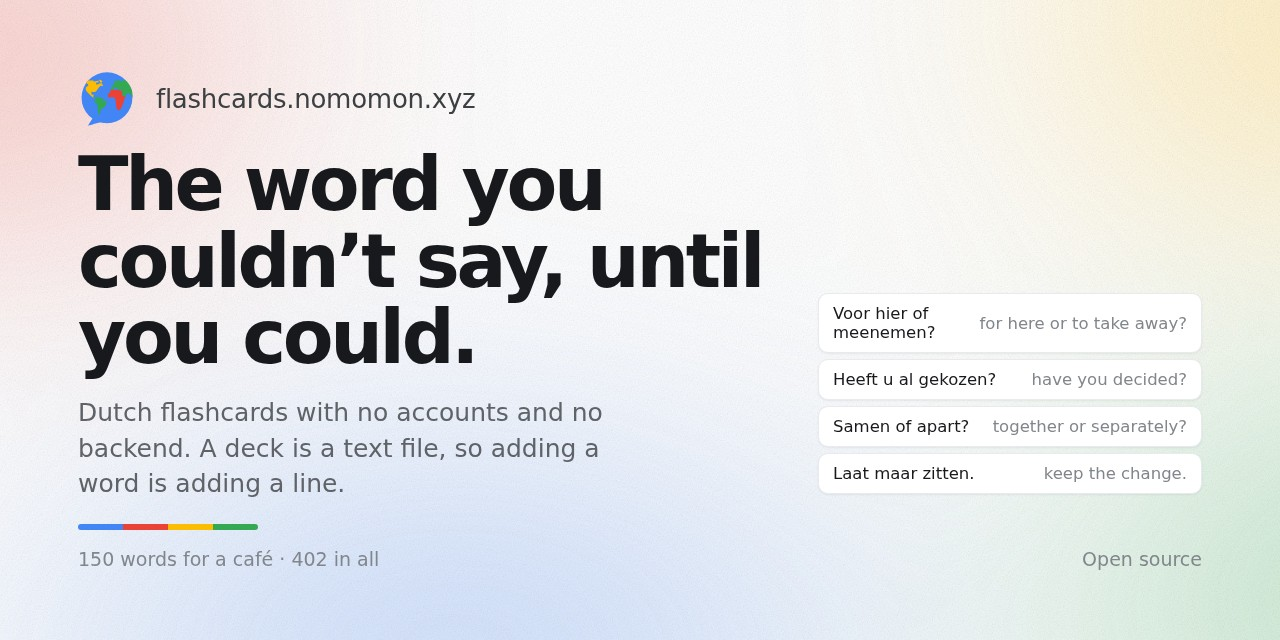
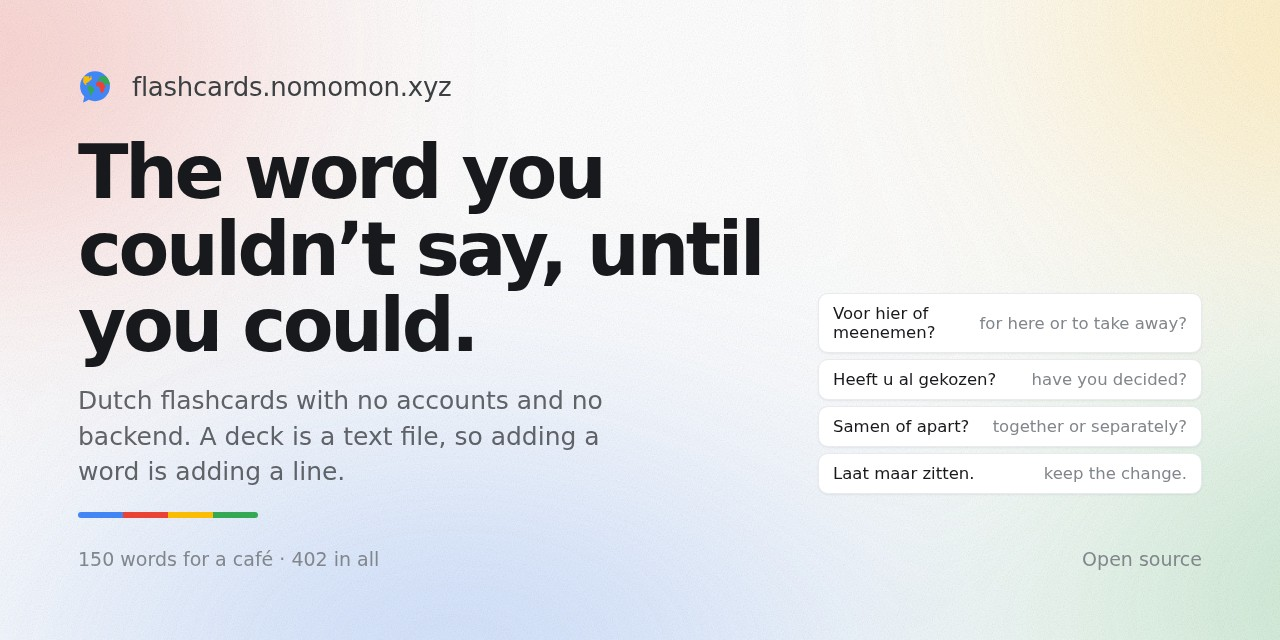
fix(brand): measure the tail, filter the coastlines, size the mark to the type
Three things, all visible.

The tail was hand-drawn from a guess and pointed the wrong way. It is now
drawn through anchors measured off the source silhouette: the two roots where
it leaves the circle, at 114.4 and 136.1 degrees, and the tip, which is the
farthest cell from the centre. Both roots sit exactly on the circle, so the
chord that closes the tail falls inside the disc and the union has no seam.

Drawn rather than traced, deliberately, and one failed attempt is worth
recording: deriving the tail as the silhouette outside the disc and smoothing
it produced a fat rounded fin, because a Gaussian over 106 cells eats the very
point that makes a speech bubble read as one.

The coastlines now go through a real filter instead of simplification alone.
Ramer-Douglas-Peucker removes points but never removes steps, so the staircase
survived it. They are resampled at uniform arc length, run through a wrapped
Gaussian along the contour, then decimated and fitted. Sampling moved to 96px,
which needed the small-shape threshold raised to 28 square units - at the old
threshold a JPEG speckle became a sixth continent sitting on North America.

The mark was oversized next to text. The globe is 87.65% of its box, and
matched to type the box wants roughly 1.4x the cap height of what it sits
beside: 1.8x dwarfs the word, 1.2x disappears under it. The header mark goes
from size-9 to size-7 beside the 24px/600 title, and the social lockup from
58px to 34px beside the 26px/500 domain.
[…]

Changed region(s): [[0.0625, 0.0938, 0.5938, 0.8438]]

diff --git a/frontend/src/components/mark.tsx b/frontend/src/components/mark.tsx
@@ -5,15 +5,23 @@ interface MarkProps {
 }
 
 /**
- * The app's mark: a globe in a speech bubble, in Google's four brand colours.
+ * A globe in a speech bubble, in Google's four brand colours.
  *
- * It carries its own colours rather than taking `currentColor`, because the
- * four hues are the mark - there is no monochrome reduction of it that still
- * says "languages". That is a deliberate trade against the previous mark, which
- * could take a deck's accent and did not need a fixed palette.
+ *     Built in two halves on purpose. The circle and the tail are DRAWN: tracing
+ *     them from the source raster left a torn outline, and a speech-bubble tail
+ *     wants a crisp point that any smoothing filter rounds off. The tail's three
+ *     anchors are measured from the source though - the two roots are where it
+ *     leaves the circle (114.4 and 136.1 degrees), and the tip is the silhouette's
+ *     farthest cell from the centre.
  *
- * The bubble is a true circle. Tracing it from the source raster left a torn
- * edge, so only the continents are traced; a circle is a circle.
+ *     The continents ARE traced, because coastlines are the one part that should
+ *     not look drawn: sampled at 96px, resampled at uniform arc length, run through
+ *     a wrapped Gaussian and decimated. The Gaussian is what turns a pixel
+ *     staircase into a coastline - simplification alone only removes points, it
+ *     never removes the steps.
+ *
+ * It carries its own colours rather than taking `currentColor`: there is no
+ * monochrome reduction of four brand hues that still says "languages".
  *
  * See `docs/DESIGN.md`.
  */
@@ -27,41 +35,41 @@ export function Mark({ className, title }: MarkProps) {
       aria-hidden={title ? undefined : "true"}
     >
       {title ? <title>{title}</title> : null}
-      <g transform="translate(6.16 4.00) scale(0.9246)">
-        <circle cx={47.41} cy={47.41} r={47.41} fill="#4285F4" />
-        {/* tail */}
+      <g transform="translate(6.17 4.00) scale(0.9246)">
+        <circle cx={47.4} cy={47.4} r={47.4} fill="#4285F4" />
+        {/* its tail */}
         <path
           fill="#4285F4"
           d={
-            "M 23.5 81 C 18.5 89.5 13.5 96 12 99.5 C 17.5 97.5 30 94.5 39.5 92 Z"
+            "M 13.25 80.27 C 11.85 87.27 10.24 94.85 9.74 99.35 C 15.24 96.55 21.82 93.57 27.82 90.57 Z"
           }
         />
         {/* North America */}
         <path
           fill="#FBBC04"
           d={
-            "M 32.76 13.79 C 33.31 13.24 37.10 14.69 37.93 15.52 C 38.76 16.35 38.48 18.42 37.93 18.97 C 37.38 19.52 35.03 18.69 34.48 18.97 C 33.93 19.25 33.93 20.41 34.48 20.69 C 35.03 20.97 37.10 19.86 37.93 20.69 C 38.76 21.52 40.21 25.03 39.66 25.86 C 39.11 26.69 36.69 24.20 34.48 25.86 C 32.27 27.52 28.34 34.55 25.86 36.21 C 23.38 37.87 20.07 35.38 18.97 36.21 C 17.87 37.04 18.42 40.55 18.97 41.38 C 19.52 42.21 21.86 40.55 22.41 41.38 C 22.96 42.21 22.69 45.72 22.41 46.55 C 22.13 47.38 22.90 48.48 20.69 46.55 C 18.48 44.62 10.55 37.51 8.62 34.48 C 6.69 31.45 8.07 28.97 8.62 27.59 C 9.17 26.21 11.52 26.69 12.07 25.86 C 12.62 25.03 12.62 23.51 12.07 22.41 C 11.52 21.31 8.62 20.07 8.62 18.97 C 8.62 17.87 9.86 16.07 12.07 15.52 C 14.28 14.97 20.76 15.24 22.41 15.52 C 24.06 15.80 21.03 17.24 22.41 17.24 C 23.79 17.24 29.65 15.24 31.03 15.52 C 32.41 15.80 31.58 18.42 31.03 18.97 C 30.48 19.52 28.14 18.42 27.59 18.97 C 27.04 19.52 27.04 21.86 27.59 22.41 C 28.14 22.96 29.93 22.96 31.03 22.41 C 32.13 21.86 34.20 20.35 34.48 18.97 C 34.76 17.59 32.21 14.34 32.76 13.79 Z"
+            "M 33 15.01 C 33.32 14.77 35.02 14.84 35.57 15.28 C 36.12 15.72 36.34 16.89 36.46 17.75 C 36.58 18.61 36.11 19.76 36.29 20.68 C 36.47 21.60 37.62 22.68 37.61 23.51 C 37.60 24.34 36.96 25.15 36.24 25.88 C 35.52 26.61 34.07 27.32 33.1 28.07 C 32.13 28.82 31.06 29.73 30.15 30.56 C 29.24 31.39 28.38 32.48 27.44 33.28 C 26.50 34.08 25.42 34.97 24.28 35.56 C 23.14 36.15 21.14 36.30 20.3 36.98 C 19.46 37.66 18.90 38.93 19.05 39.82 C 19.20 40.71 20.80 41.80 21.23 42.54 C 21.66 43.28 22.10 44.26 21.73 44.46 C 21.36 44.66 19.92 44.24 18.93 43.82 C 17.94 43.40 16.52 42.60 15.57 41.82 C 14.62 41.04 13.77 39.92 12.99 38.96 C 12.21 38.00 11.30 36.93 10.72 35.79 C 10.14 34.65 9.49 33.19 9.36 31.84 C 9.23 30.49 9.67 28.68 9.9 27.37 C 10.13 26.06 10.79 24.78 10.82 23.65 C 10.85 22.52 10.06 21.33 10.07 20.29 C 10.08 19.25 10.14 17.86 10.9 17.13 C 11.66 16.40 13.33 15.96 14.81 15.71 C 16.29 15.46 18.43 15.58 20.13 15.58 C 21.83 15.58 24.00 15.51 25.46 15.68 C 26.92 15.85 28.72 16.18 29.25 16.66 C 29.78 17.14 28.97 17.91 28.78 18.68 C 28.59 19.45 27.86 21.03 28.08 21.49 C 28.30 21.95 29.42 21.95 30.17 21.57 C 30.92 21.19 32.21 19.90 32.75 19.13 C 33.29 18.36 33.50 17.41 33.54 16.75 C 33.58 16.09 32.68 15.25 33 15.01 Z"
           }
         />
         {/* Eurasia */}
         <path
           fill="#34A853"
           d={
-            "M 63.79 15.52 C 65.72 14.97 71.03 15.24 72.41 15.52 C 73.79 15.80 70.75 17.24 72.41 17.24 C 74.07 17.24 79.45 13.31 82.76 15.52 C 86.07 17.73 91.17 26.07 93.1 31.03 C 95.03 35.99 95.38 45.17 94.83 46.55 C 94.28 47.93 91.59 40.49 89.66 39.66 C 87.73 38.83 83.86 40.55 82.76 41.38 C 81.66 42.21 83.31 44.00 82.76 44.83 C 82.21 45.66 80.69 47.38 79.31 46.55 C 77.93 45.72 74.97 41.87 74.14 39.66 C 73.31 37.45 74.97 33.86 74.14 32.76 C 73.31 31.66 70.35 33.31 68.97 32.76 C 67.59 32.21 66.90 29.86 65.52 29.31 C 64.14 28.76 61.17 28.76 60.34 29.31 C 59.51 29.86 61.17 32.21 60.34 32.76 C 59.51 33.31 56.00 33.59 55.17 32.76 C 54.34 31.93 54.62 28.42 55.17 27.59 C 55.72 26.76 58.34 28.14 58.62 27.59 C 58.90 27.04 56.35 24.97 56.9 24.14 C 57.45 23.31 61.52 23.24 62.07 22.41 C 62.62 21.58 60.06 20.07 60.34 18.97 C 60.62 17.87 61.86 16.07 63.79 15.52 Z"
+            "M 67.72 15.26 C 68.81 15.17 69.91 15.70 71.03 15.79 C 72.15 15.88 73.39 15.82 74.75 15.82 C 76.11 15.82 78.15 15.56 79.56 15.76 C 80.97 15.96 82.51 16.43 83.55 17.1 C 84.59 17.77 85.31 18.99 86.04 19.97 C 86.77 20.95 87.49 22.16 88.14 23.23 C 88.79 24.30 89.49 25.51 90.08 26.64 C 90.67 27.77 91.33 29.03 91.8 30.28 C 92.27 31.53 92.57 33.15 92.99 34.45 C 93.41 35.75 94.17 37.05 94.4 38.38 C 94.63 39.71 94.68 41.92 94.41 42.78 C 94.14 43.64 93.37 44.03 92.73 43.78 C 92.09 43.53 91.28 41.87 90.44 41.24 C 89.60 40.61 88.44 39.80 87.49 39.84 C 86.54 39.88 85.50 40.91 84.51 41.5 C 83.52 42.09 82.41 43.28 81.31 43.51 C 80.21 43.74 78.60 43.51 77.66 42.92 C 76.72 42.33 76.05 40.87 75.45 39.81 C 74.85 38.75 74.30 37.31 73.89 36.28 C 73.48 35.25 73.47 34.12 72.88 33.36 C 72.29 32.60 71.28 32.01 70.22 31.51 C 69.16 31.01 67.50 30.54 66.23 30.22 C 64.96 29.90 63.37 29.50 62.31 29.54 C 61.25 29.58 60.37 30.08 59.63 30.45 C 58.89 30.82 58.31 31.83 57.67 31.86 C 57.03 31.89 55.81 31.38 55.61 30.66 C 55.41 29.94 55.96 28.39 56.42 27.34 C 56.88 26.29 57.78 25.00 58.51 24.12 C 59.24 23.24 60.45 22.66 61 21.83 C 61.55 21.00 61.41 19.80 61.93 18.93 C 62.45 18.06 63.31 16.96 64.24 16.37 C 65.17 15.78 66.63 15.35 67.72 15.26 Z"
           }
         />
         {/* South America */}
         <path
           fill="#34A853"
           d={
-            "M 22.41 43.1 C 22.69 42.55 23.86 42.55 24.14 43.1 C 24.42 43.65 22.49 46.00 24.14 46.55 C 25.79 47.10 32.83 46.27 34.48 46.55 C 36.13 46.83 33.65 48.00 34.48 48.28 C 35.31 48.56 38.56 47.45 39.66 48.28 C 40.76 49.11 40.28 52.62 41.38 53.45 C 42.48 54.28 46.00 52.07 46.55 53.45 C 47.10 54.83 46.76 59.04 44.83 62.07 C 42.90 65.10 36.14 69.65 34.48 72.41 C 32.82 75.17 35.03 78.76 34.48 79.31 C 33.93 79.86 31.86 78.90 31.03 75.86 C 30.20 72.82 30.41 63.65 29.31 60.34 C 28.21 57.03 24.69 57.10 24.14 55.17 C 23.59 53.24 26.14 49.66 25.86 48.28 C 25.58 46.90 22.96 47.38 22.41 46.55 C 21.86 45.72 22.13 43.65 22.41 43.1 Z"
+            "M 23.21 46.04 C 23.56 45.69 24.79 45.58 25.78 45.49 C 26.77 45.40 28.27 45.41 29.37 45.47 C 30.47 45.53 31.75 45.57 32.65 45.84 C 33.55 46.11 34.24 46.74 35.01 47.14 C 35.78 47.54 36.75 47.87 37.47 48.32 C 38.19 48.77 38.88 49.40 39.51 49.94 C 40.14 50.48 40.74 51.19 41.38 51.72 C 42.02 52.25 42.89 52.71 43.49 53.26 C 44.09 53.81 44.92 54.41 45.15 55.18 C 45.38 55.95 45.09 57.17 44.91 58.07 C 44.73 58.97 44.35 60.00 44 60.81 C 43.65 61.62 43.16 62.44 42.71 63.16 C 42.26 63.88 41.70 64.64 41.17 65.28 C 40.64 65.92 39.93 66.52 39.39 67.15 C 38.85 67.78 38.33 68.58 37.81 69.23 C 37.29 69.88 36.56 70.46 36.14 71.21 C 35.72 71.96 35.41 72.97 35.17 73.89 C 34.93 74.81 34.92 76.25 34.61 76.95 C 34.30 77.65 33.69 78.29 33.25 78.28 C 32.81 78.27 32.29 77.47 31.84 76.89 C 31.39 76.31 30.75 75.53 30.44 74.68 C 30.13 73.83 29.99 72.64 29.9 71.56 C 29.81 70.48 29.90 69.08 29.87 67.94 C 29.84 66.80 29.90 65.43 29.7 64.46 C 29.50 63.49 29.06 62.61 28.62 61.88 C 28.18 61.15 27.44 60.58 26.95 59.9 C 26.46 59.22 25.98 58.36 25.58 57.62 C 25.18 56.88 24.65 55.98 24.43 55.25 C 24.21 54.52 24.17 53.83 24.18 53.03 C 24.19 52.23 24.57 51.10 24.47 50.25 C 24.37 49.40 23.78 48.36 23.58 47.69 C 23.38 47.02 22.86 46.39 23.21 46.04 Z"
           }
         />
         {/* Africa */}
         <path
           fill="#EA4335"
           d={
-            "M 55.17 32.76 C 58.48 32.21 70.83 32.83 74.14 34.48 C 77.45 36.13 74.76 41.17 75.86 43.1 C 76.96 45.03 81.58 42.41 81.03 46.55 C 80.48 50.69 74.89 65.66 72.41 68.97 C 69.93 72.28 67.17 70.55 65.52 67.24 C 63.87 63.93 64.55 51.59 62.07 48.28 C 59.59 44.97 51.93 47.93 50 46.55 C 48.07 45.17 49.45 41.04 50 39.66 C 50.55 38.28 52.62 39.03 53.45 37.93 C 54.28 36.83 51.86 33.31 55.17 32.76 Z"
+            "M 56.51 33.13 C 57.51 32.75 59.04 32.55 60.18 32.59 C 61.32 32.63 62.65 33.12 63.61 33.38 C 64.57 33.64 65.27 34.06 66.16 34.2 C 67.05 34.34 68.19 34.08 69.17 34.27 C 70.15 34.46 71.44 34.81 72.26 35.37 C 73.08 35.93 73.70 36.92 74.27 37.75 C 74.84 38.58 75.33 39.66 75.84 40.55 C 76.35 41.44 76.82 42.56 77.44 43.34 C 78.06 44.12 79.14 44.73 79.69 45.42 C 80.24 46.11 80.86 46.86 80.89 47.63 C 80.92 48.40 80.36 49.41 79.9 50.22 C 79.44 51.03 78.52 51.79 78.02 52.69 C 77.52 53.59 77.06 54.72 76.8 55.86 C 76.54 57.00 76.67 58.71 76.38 59.82 C 76.09 60.93 75.48 61.90 74.98 62.8 C 74.48 63.70 73.88 64.69 73.26 65.47 C 72.64 66.25 71.91 67.19 71.08 67.66 C 70.25 68.13 68.95 68.58 68.07 68.43 C 67.19 68.28 66.16 67.52 65.6 66.71 C 65.04 65.90 64.85 64.47 64.56 63.36 C 64.27 62.25 63.98 60.96 63.78 59.76 C 63.58 58.56 63.51 57.04 63.29 55.86 C 63.07 54.68 62.78 53.40 62.42 52.36 C 62.06 51.32 61.70 50.00 61.04 49.38 C 60.38 48.76 59.16 48.63 58.28 48.46 C 57.40 48.29 56.37 48.59 55.52 48.34 C 54.67 48.09 53.66 47.52 52.96 46.87 C 52.26 46.22 51.50 45.31 51.16 44.3 C 50.82 43.29 50.69 41.66 50.81 40.54 C 50.93 39.42 51.40 38.18 51.9 37.29 C 52.40 36.40 53.22 35.64 53.96 34.97 C 54.70 34.30 55.51 33.51 56.51 33.13 Z"
           }
         />
       </g>

diff --git a/frontend/src/routes/main-tabs.tsx b/frontend/src/routes/main-tabs.tsx
@@ -33,7 +33,7 @@ export function MainHeader({ action }: { action?: ReactNode }) {
         <div className="flex items-center gap-2.5">
           {/* Below 40px the glyph pair stops being legible, so the header wears
               the reduced mark. */}
-          <Mark className="size-9 shrink-0" />
+          <Mark className="size-7 shrink-0" />
           <h1 className="font-heading text-2xl font-semibold tracking-tight">
             Flashcards
           </h1>

diff --git a/docs/DESIGN.md b/docs/DESIGN.md
@@ -12,18 +12,45 @@ before it says anything else, which is the one job an app icon has here.
 `frontend/public/mark.svg` is the source; `frontend/src/components/mark.tsx` is
 the same geometry as a component.
 
-Two halves to how it is built, and the split is deliberate:
+Two halves to how it is built, and the split is deliberate.
 
-- **The bubble is drawn.** A circle at `cx 47.41, cy 47.41, r 47.41`, plus a
-  tail. Tracing it from the source raster left a visibly torn outline, because
-  the source was a small image with antialiased edges. A circle is a circle.
-- **The continents are traced.** They are organic, so they were extracted from
-  the source at 72px, simplified with Ramer-Douglas-Peucker at `ε 0.85`, and
-  smoothed through a closed Catmull-Rom spline at tension `0.16`. That is why
-  the coastlines read as coastlines rather than as a staircase.
+**The bubble and its tail are drawn.** The circle is `cx 47.4, cy 47.4, r 47.4`.
+Tracing it from the source raster left a visibly torn outline, and a
+speech-bubble tail wants a crisp point that any smoothing filter rounds into a
+fin. Drawn does not mean guessed, though: the tail's three anchors are measured
+off the source silhouette.
+
+| Anchor | Value | What it is |
+| --- | --- | --- |
+| root A | `114.4°` | where the tail leaves the circle, lower side |
+| root B | `136.1°` | where it leaves, upper side |
+| tip | `(9.74, 99.35)` | the silhouette's farthest cell from the centre |
+
+Because both roots sit exactly on the circle, the chord closing the tail falls
+inside the disc and the union has no seam.
+
+**The continents are traced**, because coastlines are the one part that should
+not look drawn. Sampled at 96px, then:
+
+1. **Resample** the pixel staircase at uniform arc length.
+2. **Gaussian** along the contour, wrapped. This is the step that matters:
+   simplification alone only removes points, it never removes the steps.
+   Ramer-Douglas-Peucker on its own left visible stair edges.
+3. **Decimate**, then fit a closed Catmull-Rom spline at tension `0.16`.
+
+Shapes under 28 square units are dropped, which is what keeps JPEG speckle in
+the source from becoming a sixth continent.
 
 The whole mark is then scaled to `0.9246` and centred, so the circle plus the
 tail sit inside the square with an even margin.
+
+### Sizing it beside text
+
+The globe is 87.65% of the mark's box, the rest being the margin and the tail's
+overhang. Matched to text, the box wants to be about **1.4x the cap height** of
+what it sits next to: at 1.8x the globe visibly dwarfs the word, at 1.2x the
+word dominates. In practice that is `size-7` (28px) beside the 24px/600 header,
+and 34px beside the 26px/500 domain in the social image.
 
 The mark carries its own colours rather than taking `currentColor`. There is no
 monochrome reduction of it that still says "languages", which is a real trade
